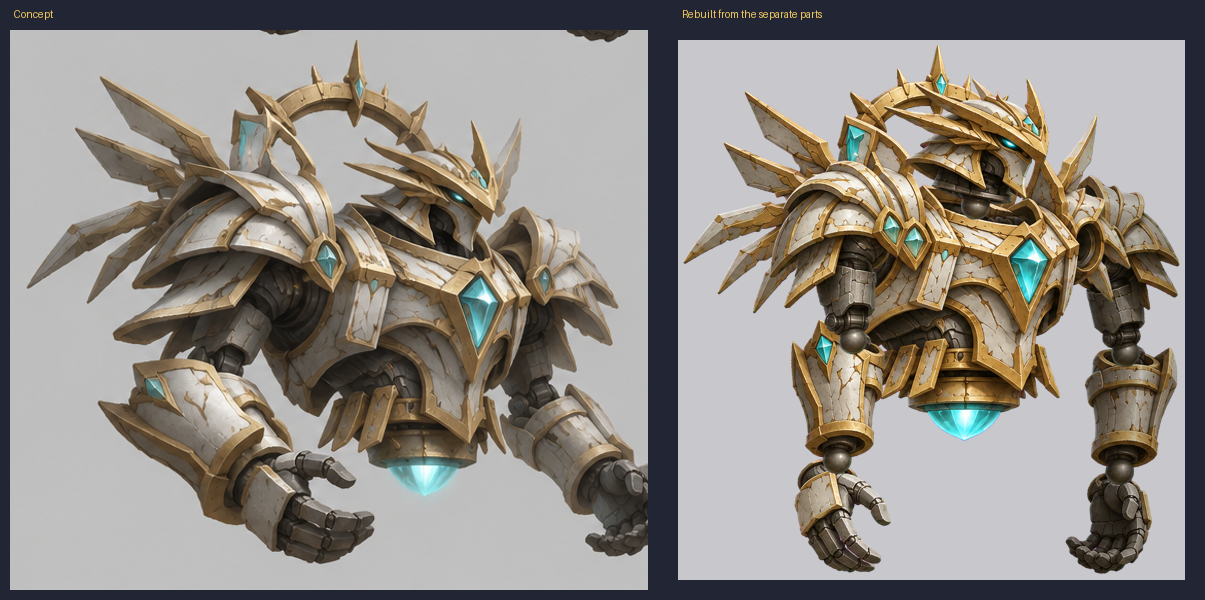
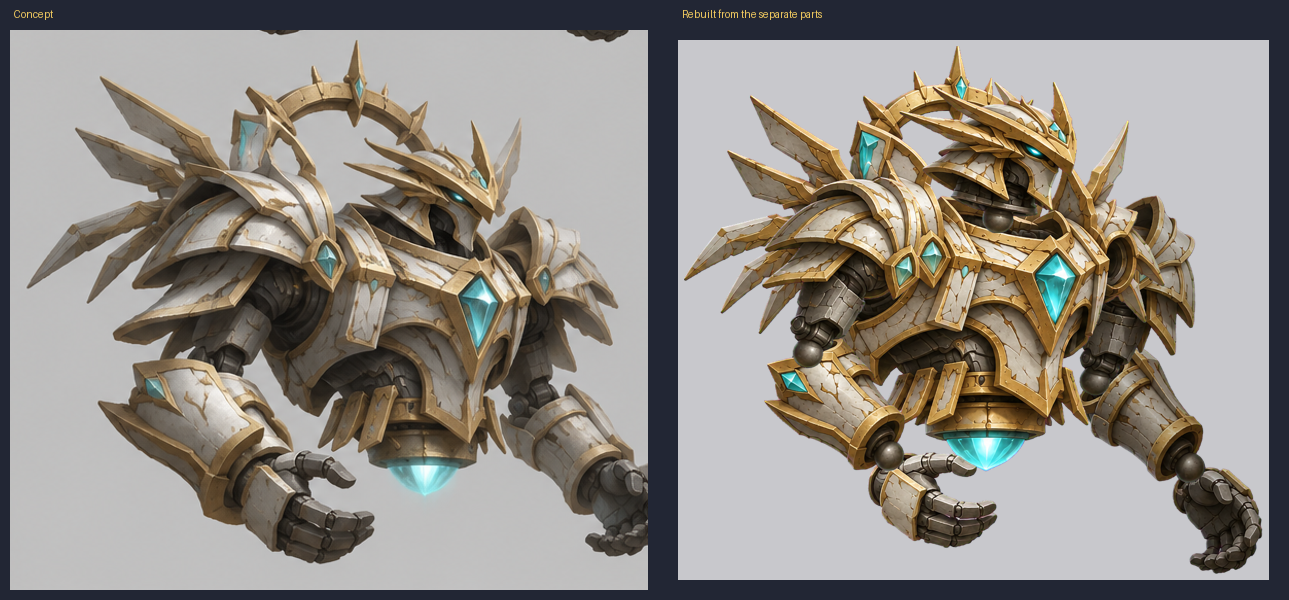
Mecha: arms posed like the original concept
Claude-Session: https://claude.ai/code/session_01JamU3DGA95eo1q8PxeEFBV

diff --git a/dev/mecha/assemble_mecha.py b/dev/mecha/assemble_mecha.py
@@ -23,7 +23,7 @@ P = {
  "fFo":   ((1271, 514, 1430, 767), {"p0": (1332, 535), "p1": (1356, 743)}),
  "fHa":   ((1299, 792, 1435, 999), {"p0": (1355, 816)}),
 }
-pose = {"head": 0, "nUp": 8, "nFo": -18, "nHa": -8, "fUp": 6, "fFo": -16, "fHa": -6, "dark": 0.78}
+pose = {"head": 0, "nUp": -22, "nFo": 58, "nHa": -12, "fUp": -24, "fFo": 64, "fHa": -18, "dark": 0.78}   # concept pose (Harley: arms like the original composite)
 if len(sys.argv) > 2: pose.update(json.loads(sys.argv[2]))
 def part(n):
     (x0, y0, x1, y1), pv = P[n]; im = Image.fromarray(S[y0:y1, x0:x1].copy())
